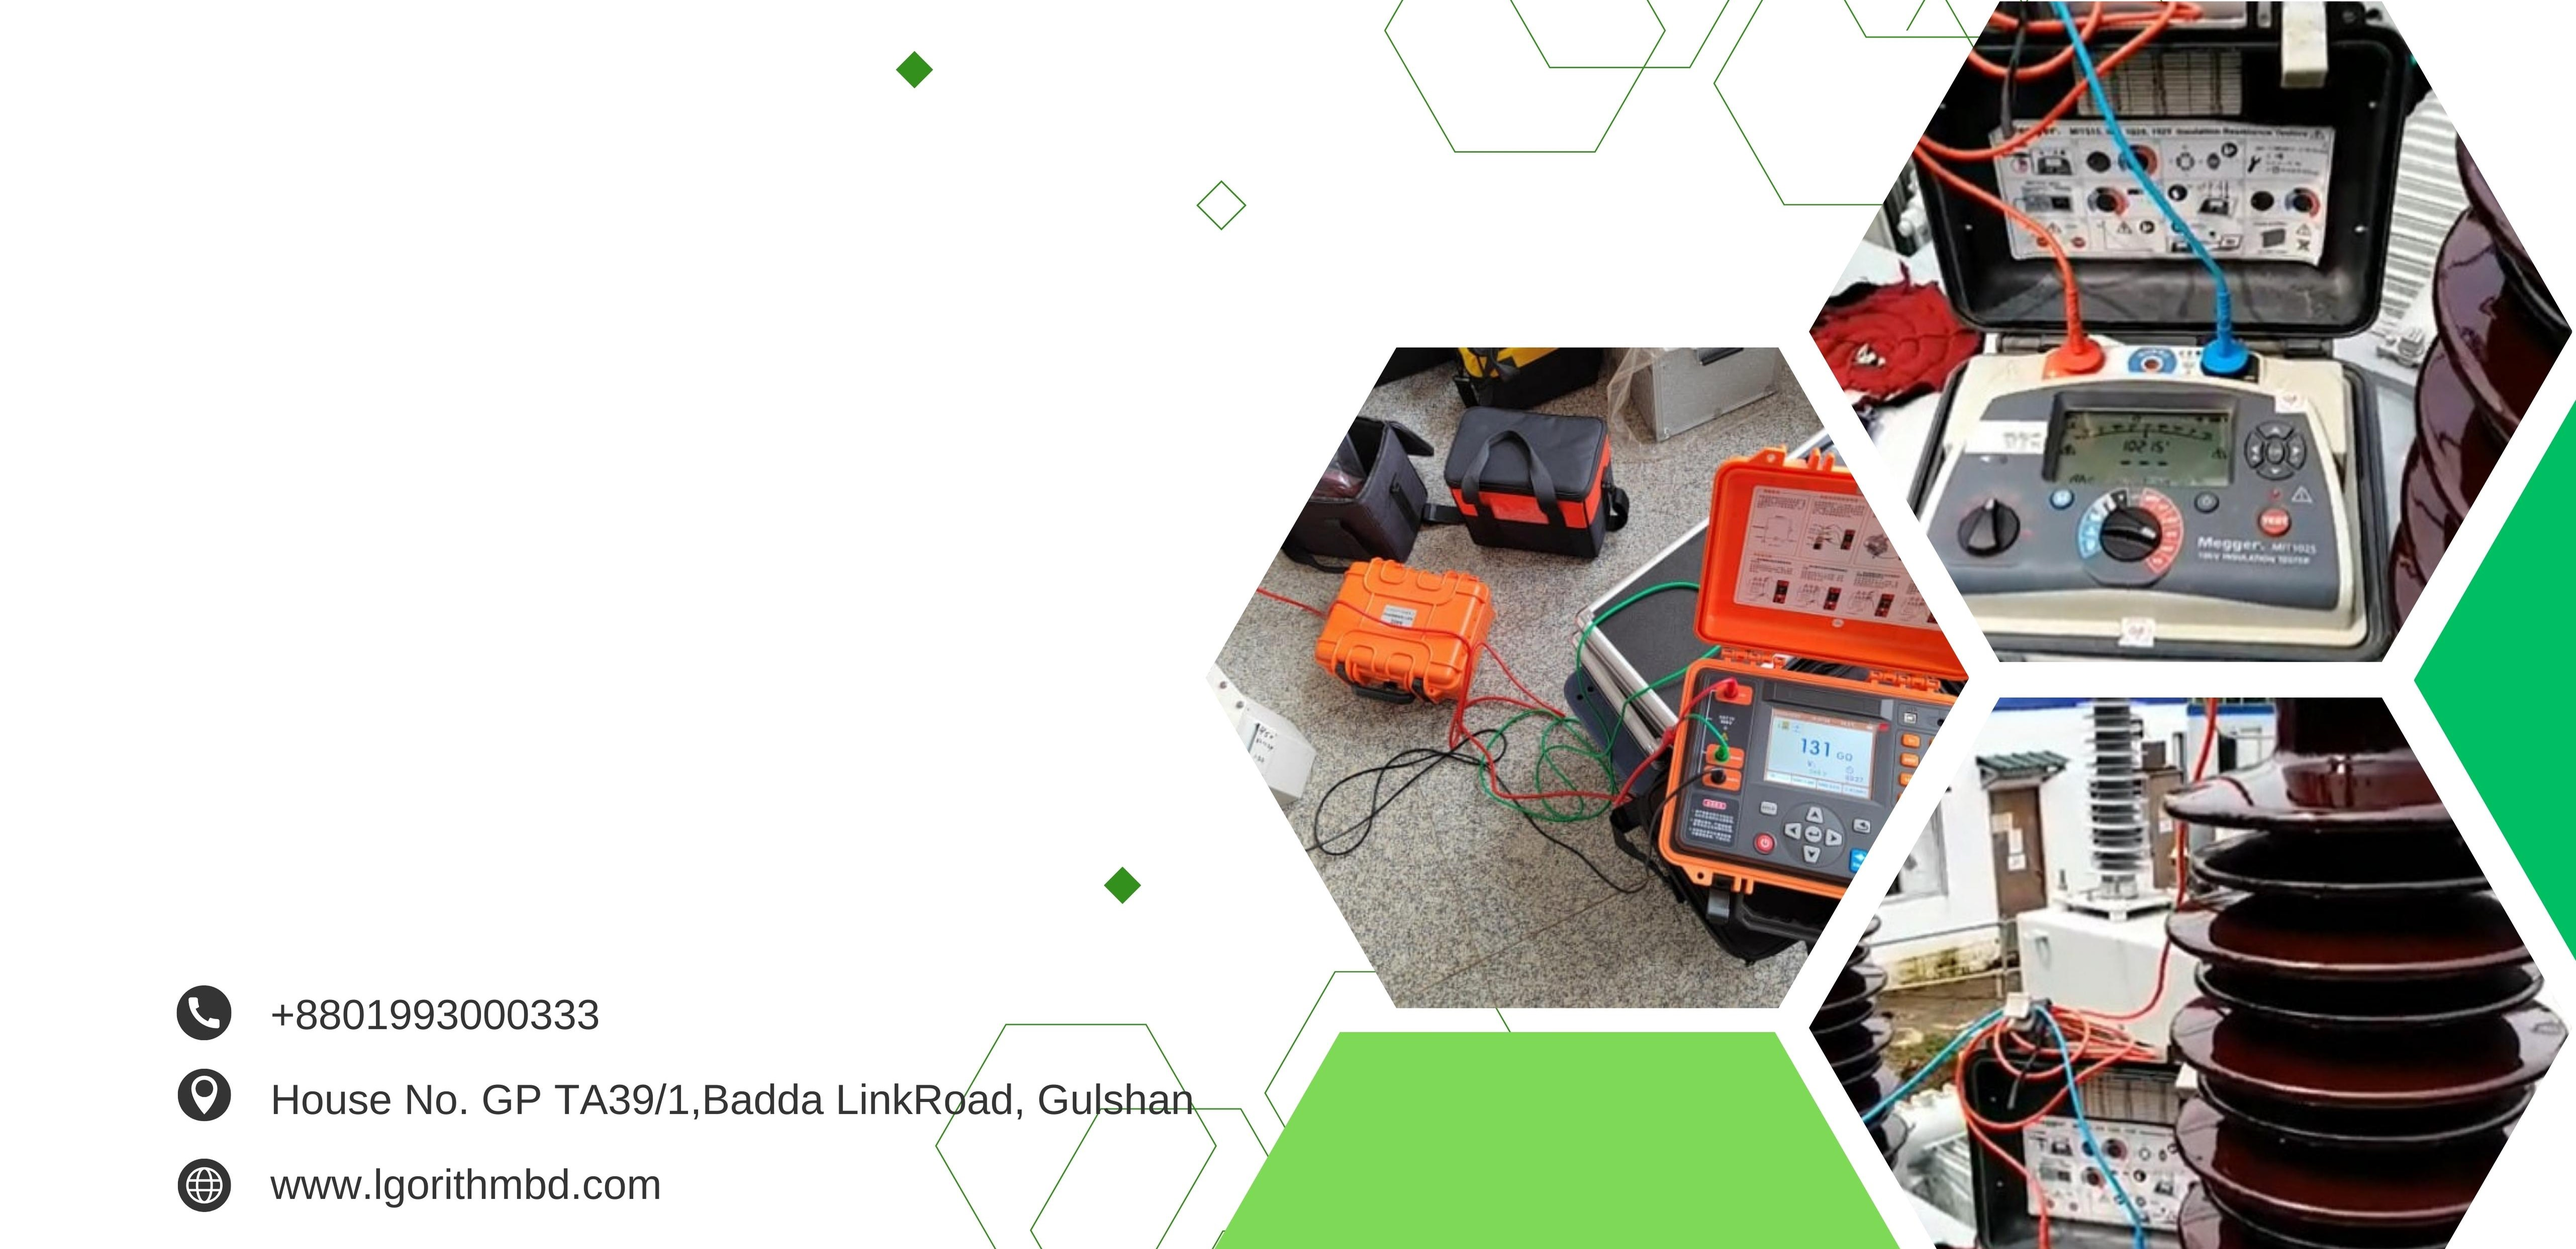
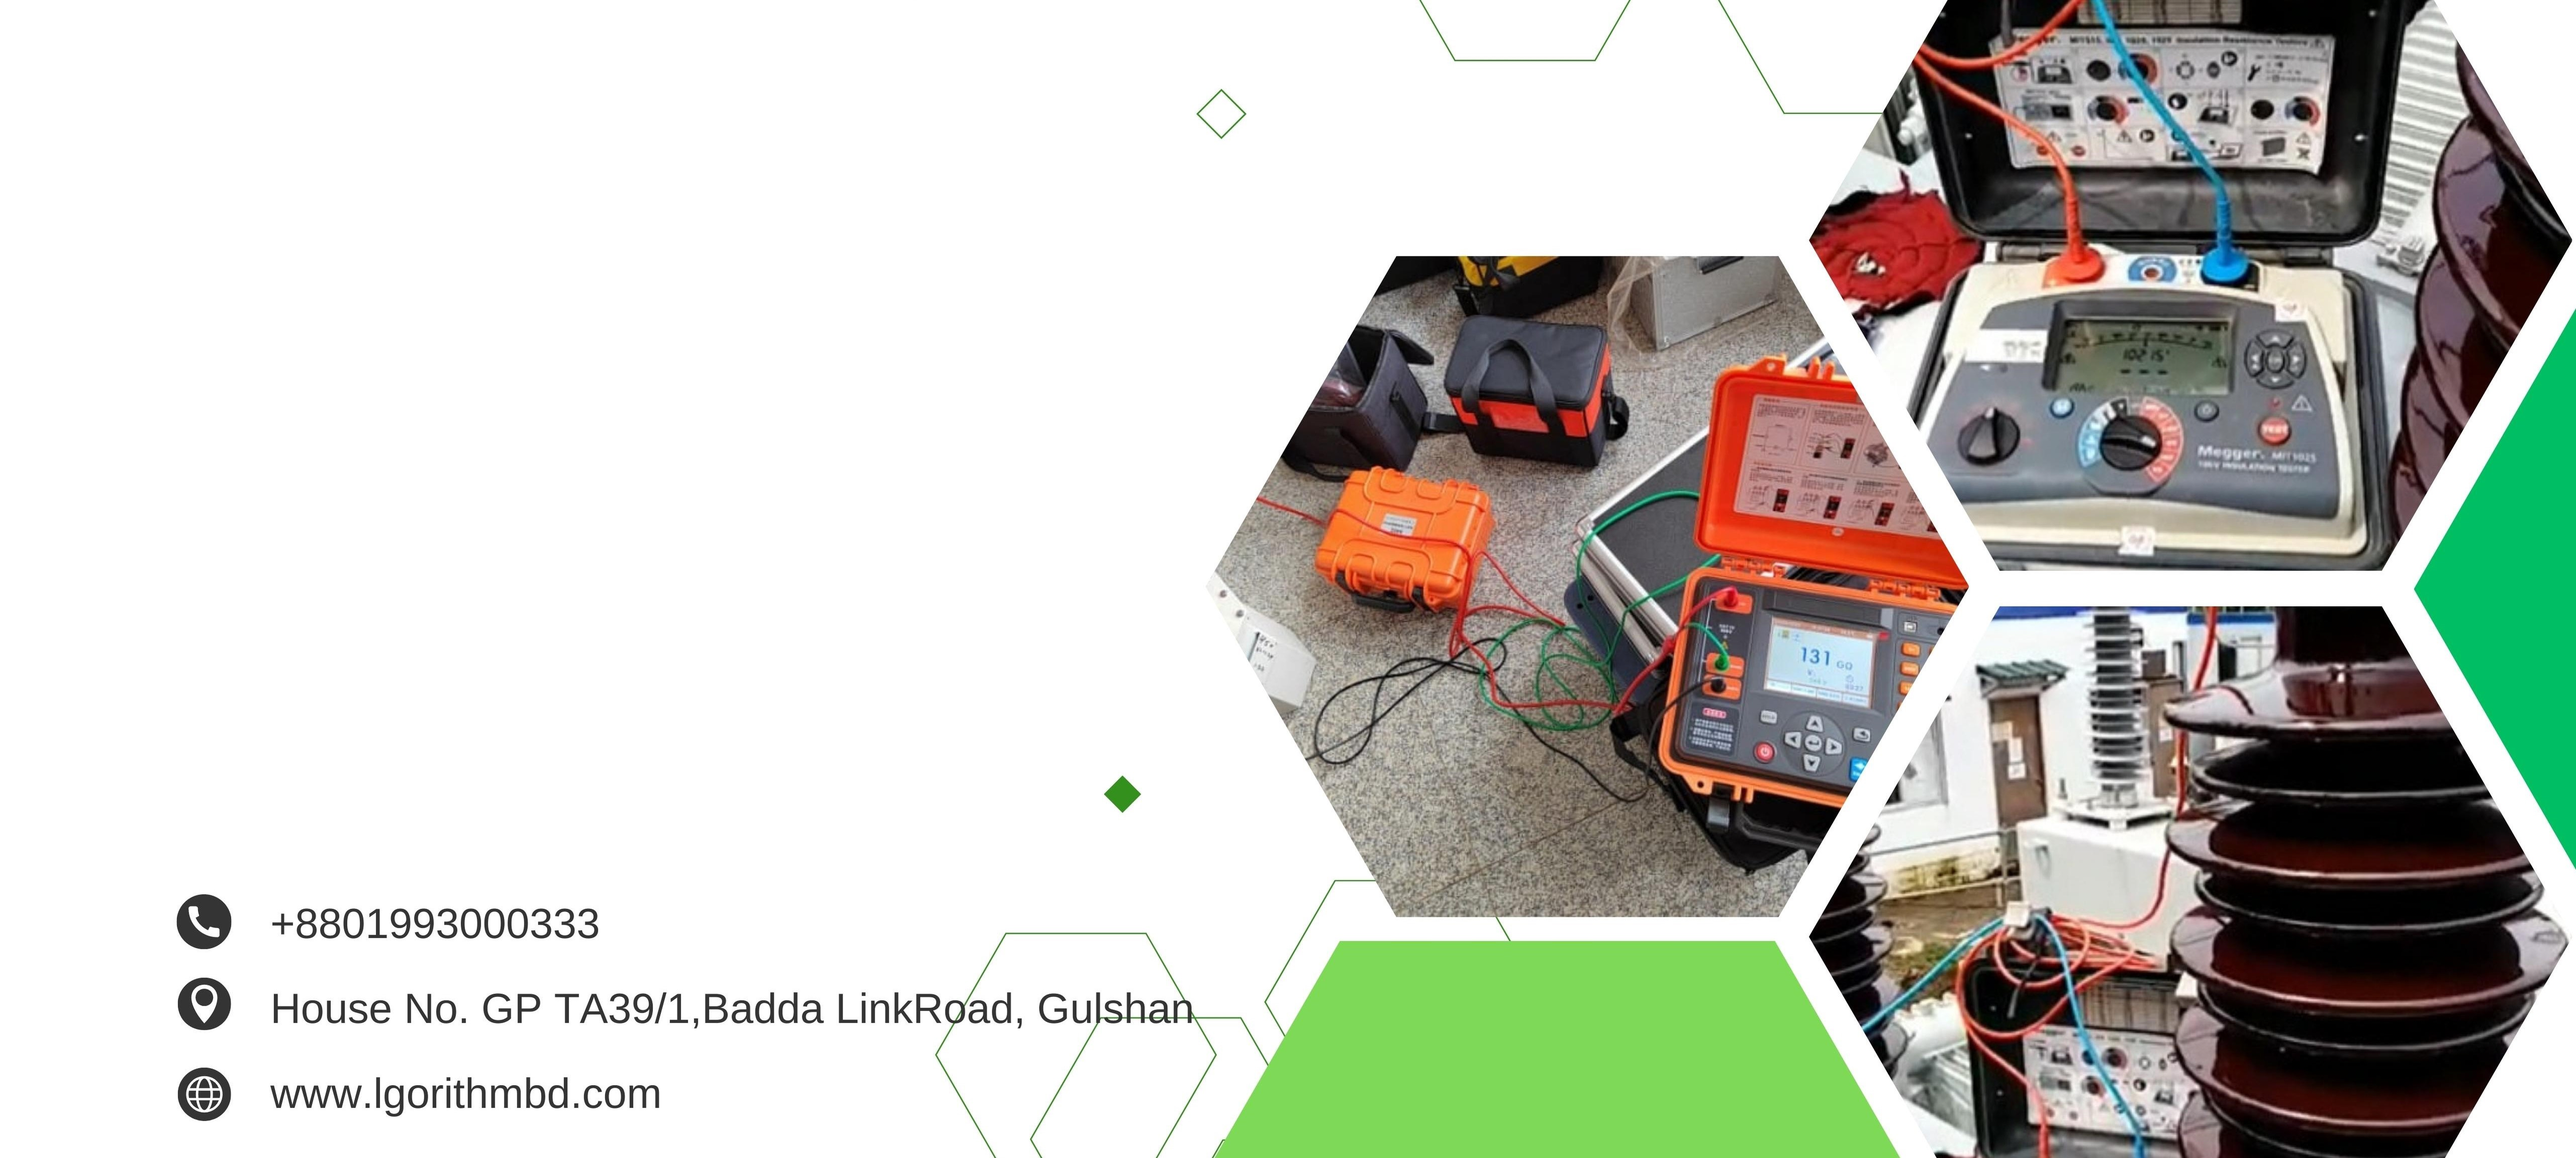
slider size

diff --git a/index.html b/index.html
@@ -99,7 +99,7 @@
       <div class="carousel-inner" role="listbox">
 
         <!-- Slide 1 -->
-        <div class="carousel-item active" style="background-image: url(assets/img/slide/slider.jpg)">
+        <div class="carousel-item active" style="background-image: url(assets/img/slide/slider.jpg);background-repeat: no-repeat;background-size: 100% 100%; ">
           <div class="carousel-container">
             <div class="container">
               <h2 class="animate__animated animate__fadeInDown"> image.png</h2>
@@ -110,7 +110,7 @@
         </div>
 
         <!-- Slide 2 -->
-        <div class="carousel-item" style="background-image: url(assets/img/slide/slide-2.jpg)">
+        <div class="carousel-item" style="background-image: url(assets/img/slide/slide-2.jpg);background-repeat: no-repeat;background-size: 100% 100%;">
           <div class="carousel-container">
             <div class="container">
               <h2 class="animate__animated animate__fadeInDown">Lorem Ipsum Dolor</h2>
@@ -120,16 +120,7 @@
           </div>
         </div>
 
-        <!-- Slide 3 -->
-        <div class="carousel-item" style="background-image: url(assets/img/slide/slide-3.jpg)">
-          <div class="carousel-container">
-            <div class="container">
-              <h2 class="animate__animated animate__fadeInDown">Sequi ea ut et est quaerat</h2>
-              <p class="animate__animated animate__fadeInUp">Ut velit est quam dolor ad a aliquid qui aliquid. Sequi ea ut et est quaerat sequi nihil ut aliquam. Occaecati alias dolorem mollitia ut. Similique ea voluptatem. Esse doloremque accusamus repellendus deleniti vel. Minus et tempore modi architecto.</p>
-              <button href="#about" class="btn btn-get-started animate__animated animate__fadeInUp scrollto">About Us</button>
-            </div>
-          </div>
-        </div>
+       
 
       </div>
 

diff --git a/assets/css/style.css b/assets/css/style.css
@@ -470,6 +470,11 @@ section {
   background-position: center;
   background-repeat: no-repeat;
 }
+#hero img{
+  background-size: cover;
+  background-position: right;
+  background-repeat: no-repeat;
+}
 
 #hero .carousel-item::before {
   content: "";
